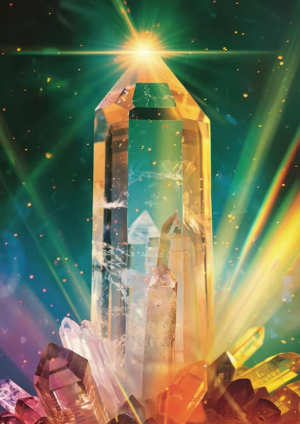
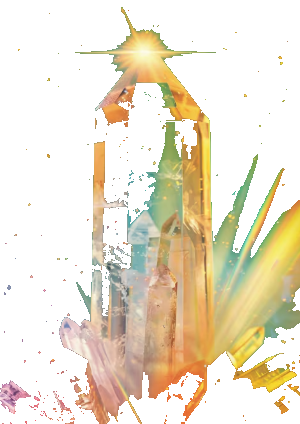
fix: 首頁 hero 水晶圖去背羽化, 融合底色不懸浮(移除浮動動畫/基座光環/懸浮陰影)

diff --git a/assets/css/style.css b/assets/css/style.css
@@ -564,8 +564,6 @@ table.tbl tbody tr:hover { background: rgba(13,95,88,.04); }
 .reveal { opacity: 0; transform: translateY(22px); transition: opacity .7s ease, transform .7s cubic-bezier(.2,.8,.3,1); }
 .reveal.in { opacity: 1; transform: none; }
 
-@keyframes float { 0%,100% { transform: translateY(0) rotate(0deg); } 50% { transform: translateY(-14px) rotate(2.5deg); } }
-.floating { animation: float 7s ease-in-out infinite; }
 @keyframes spinSlow { to { transform: rotate(360deg); } }
 .spin-slow { animation: spinSlow 26s linear infinite; }
 @keyframes pulseGlow { 0%,100% { opacity: .45; } 50% { opacity: .85; } }
@@ -575,17 +573,28 @@ table.tbl tbody tr:hover { background: rgba(13,95,88,.04); }
 .hero-sm { padding: 64px 0 52px; }
 .hero-grid { display: grid; grid-template-columns: 1.05fr .95fr; gap: 46px; align-items: center; }
 .hero-visual { position: relative; display: grid; place-items: center; min-height: 400px; }
-.hero-ring {
-  position: absolute; border: 1px solid rgba(20,184,166,.22); border-radius: 50%;
-  animation: pulseGlow 5s ease-in-out infinite;
+.hero-aura {
+  position: absolute; z-index: 0; inset: 0; margin: auto;
+  width: min(92%, 480px); height: 540px;
+  background:
+    radial-gradient(58% 52% at 50% 46%, rgba(94,234,212,.30), rgba(56,189,248,.12) 46%, transparent 72%),
+    radial-gradient(72% 62% at 50% 52%, var(--bg-1) 0%, var(--bg-2) 40%, transparent 74%);
+  filter: blur(8px);
+  animation: pulseGlow 6s ease-in-out infinite;
 }
 .hero-stats { display: flex; gap: 30px; margin-top: 34px; flex-wrap: wrap; }
 .hero-stat-v { font-size: 1.65rem; font-weight: 800; font-family: var(--font-mono); }
 .hero-stat-l { font-size: .76rem; color: var(--text-faint); letter-spacing: .1em; }
 
-/* Hero 圖片(用戶提供的水晶圖) */
-.hero-photo { max-width: 100%; height: auto; transition: transform .6s cubic-bezier(.2,.8,.3,1); }
-.hero-visual:hover .hero-photo { transform: scale(1.04) rotate(-1deg); }
+/* Hero 圖片(用戶提供的水晶圖, 已去背羽化) — 直接坐落在底色上, 不懸浮 */
+.hero-photo {
+  position: relative; z-index: 1;
+  width: auto; height: 440px; max-height: 64vh;
+  /* 同色調極淡柔光, 讓水晶像從底色中浮現而非懸空 */
+  filter: drop-shadow(0 10px 26px rgba(13,95,88,.18));
+  transition: transform .7s cubic-bezier(.2,.8,.3,1);
+}
+.hero-visual:hover .hero-photo { transform: scale(1.03); }
 .hero-badge { animation: fadeIn 1.2s ease-out .4s both; }
 @keyframes fadeIn { from { opacity: 0; transform: translateY(-6px); } to { opacity: 1; transform: none; } }
 

diff --git a/index.html b/index.html
@@ -33,12 +33,8 @@
         </div>
       </div>
       <div class="hero-visual">
-        <div class="hero-ring" style="width:380px;height:380px"></div>
-        <div class="hero-ring spin-slow" style="width:280px;height:280px;border-style:dashed;border-color:rgba(20,184,166,.22)"></div>
-        <div class="hero-ring" style="width:200px;height:200px;animation-duration:3.5s"></div>
-        <div class="floating" style="position:relative;display:grid;place-items:center">
-          <img src="assets/images/hero-crystal.png" alt="天然水晶能量晶簇" class="hero-photo" style="width:auto;height:430px;max-height:62vh;filter:drop-shadow(0 28px 60px rgba(20,184,166,.55)) drop-shadow(0 0 24px rgba(94,234,212,.35))">
-        </div>
+        <div class="hero-aura"></div>
+        <img src="assets/images/hero-crystal.png" alt="天然水晶能量晶簇" class="hero-photo">
         <div style="position:absolute;top:14px;right:14px;z-index:3" class="hero-badge">
           <span style="display:inline-flex;align-items:center;gap:5px;padding:5px 12px;border-radius:999px;background:rgba(2,6,23,.55);backdrop-filter:blur(8px);border:1px solid rgba(94,234,212,.4);color:#5eead4;font-size:.72rem;letter-spacing:.05em">
             <span style="width:6px;height:6px;border-radius:50%;background:#5eead4;box-shadow:0 0 8px #5eead4;animation:pulseGlow 2s ease-in-out infinite"></span>
